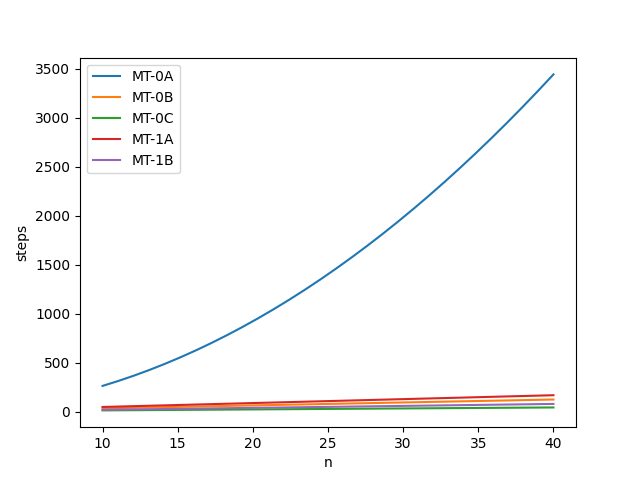
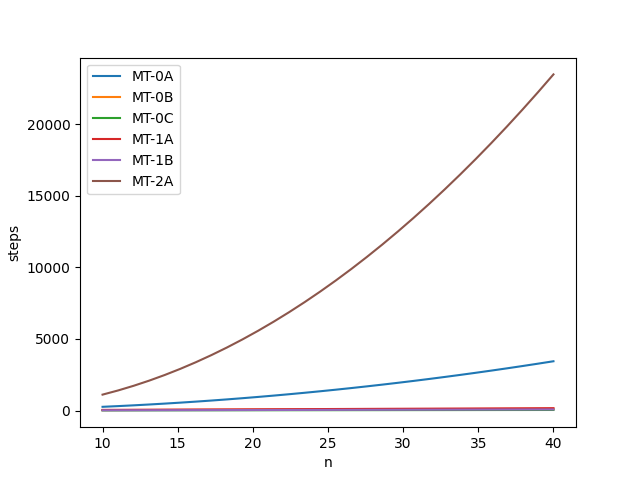
fixes pre-entrega

diff --git a/report/parts/2.2-base2.tex b/report/parts/2.2-base2.tex
@@ -57,7 +57,7 @@ Dado que la maquina funciona restando de uno en uno al número de la derecha y s
 Del mismo modo al restar a la derecha para sumar a la izquierda, a más digitos en la derecha más ciclos de suma-resta se reuerirán.
 
 \subsubsection*{Evaluación empírica}
-Realizamos la evaluación empírica en el peor caso, tomando como $n$ el tamaño de la cadena de entrada, compuesta por por 1 a la derecha del \$ ya que se trataría del peor caso, y midiendo el número de pasos realizados para resolver el problema\footnote{Los datos se pueden encontrar en \texttt{data/MT-1A.csv}.}:
+Realizamos la evaluación empírica en el peor caso, tomando como $n$ el tamaño de la cadena de entrada, compuesta por por 1 a la derecha del \$ ya que se trataría del peor caso, y midiendo el número de pasos realizados para resolver el problema\footnote{Los datos se pueden encontrar en \texttt{data/MT-2A.csv}.}:
 
 \begin{table}[h]
     \centering
@@ -74,6 +74,9 @@ Realizamos la evaluación empírica en el peor caso, tomando como $n$ el tamaño
 
 
 \subsubsection*{Coste computacional}
+
+% TODO: revise this
+
 Para obtener el coste computacional del algoritmo, aplicaremos Diferencias Finitas, basándonos en los datos de la evaluación empírica:
 
 
@@ -94,22 +97,30 @@ Se obsrerva que las diferencias finitas primeras no son constantes y segundas so
 
 \begin{subequations}
     \begin{gather}
-        n = 2,\ T(5) = 17 \rightarrow 4a + 2b + c = 17\\
+        n = 2,\ T(5) = 17 \rightarrow 4a + 2b + c = 17 \\
         n = 3,\ T(3) = 42 \rightarrow 9a + 3b + c = 42 \\
-        n = 4,\ T(4) = 99 \rightarrow 16a + 4b + c = 99 \\
+        n = 4,\ T(4) = 99 \rightarrow 16a + 4b + c = 99
     \end{gather}
 \end{subequations}
 
-Resolviendo, $a=16$, $b=1-55$ y $c=63$, por lo que:
+Resolviendo, $a=16$, $b=-55$ y $c=63$, por lo que:
 
 \begin{equation}
-    T_{\mathrm{1A}}(n) = 16n^2-55n + 63
+    T_{\mathrm{2A}}(n) = 16n^2 - 55n + 63
 \end{equation}
 
 \subsubsection*{Cota asintótica}
 Al conocer $T_{\mathrm{1A}}(n)$, podemos afirmar que $g(n) = n^2$. Si asumimos $n_0 = 10$, obtenemos $k \geq \frac{1113}{100}$, por lo que la cota asintótica (definida en la ecuación \ref{eq:On}) para esta máquina es:
 \begin{equation}
-    T_{\mathrm{1A}}(n) = \frac{1113}{100} n^2
+    O_{\mathrm{2A}}(n) = \frac{1113}{100} n^2
 \end{equation}
 
+Se puede observar la cota en comparación con el coste computacional en la Figura \ref{fig:MT-2A_plot} (asumiendo $n_0 = 10$).
 
+% TODO: revisar, 0(n) < T(n)
+\begin{figure}[h]
+    \centering
+    \includegraphics[width=0.6\textwidth]{plot_MT-2A_complexity.png}
+    \caption{Coste computacional de MT-2A}
+    \label{fig:MT-2A_plot}
+\end{figure}

diff --git a/report/parts/2.1-base1.tex b/report/parts/2.1-base1.tex
@@ -214,6 +214,8 @@ Al conocer $T_{\mathrm{1B}}(n)$, podemos afirmar que $g(n) = n$. Si asumimos $n_
 
 Se puede observar la cota en comparación con el coste computacional en la Figura \ref{fig:MT-1B_plot} (asumiendo $n_0 = 10$).
 
+% TODO: revisar, 0(n) < T(n)
+
 \begin{figure}[h]
     \centering
     \includegraphics[width=0.6\textwidth]{plot_MT-1B_complexity.png}

diff --git a/src/test.py b/src/test.py
@@ -257,6 +257,10 @@ if __name__ == "__main__":
         'MT-1B':{
             "T(n)": lambda n : 2*n - 2,
             "O(n)": lambda n : (18/10)*n
+        },
+        'MT-2A':{
+            "T(n)": lambda n : 16*n**2 - 55*n + 63,
+            "O(n)": lambda n : (1113/100)*n**2
         }
     }
 

diff --git a/README.md b/README.md
@@ -92,18 +92,18 @@ You can fix scaling errors with the `-Dsun.java2d.uiScale` parameter, e.g.: `jav
 ### Running the Python tests
 This requires Python 3.12, but should work on python 3.10+.
 
-1. Create a Python virtual enviroment in the `venv` folder.
+1. Create a Python virtual enviroment in the `.venv` folder.
     ```bash
-    python3 -m venv ./venv
+    python3 -m venv ./.venv
     ```
 2. Activate the venv
    - Linux:
         ```bash
-        source venv/bin/activate
+        source .venv/bin/activate
         ```
     - Windows (PowerShell):
         ```powershell
-        & .\venv\Scripts\Activate.ps1
+        & .\.venv\Scripts\Activate.ps1
         ```
 3. Install the dependencies
    ```
@@ -121,7 +121,7 @@ If you're in Windows, we recommend you to instal [WSL2](https://learn.microsoft.
    make
    cd ..
    ```
-1. Run the script.
+6. Run the script.
    ```
    python3 src/test.py
    ```
